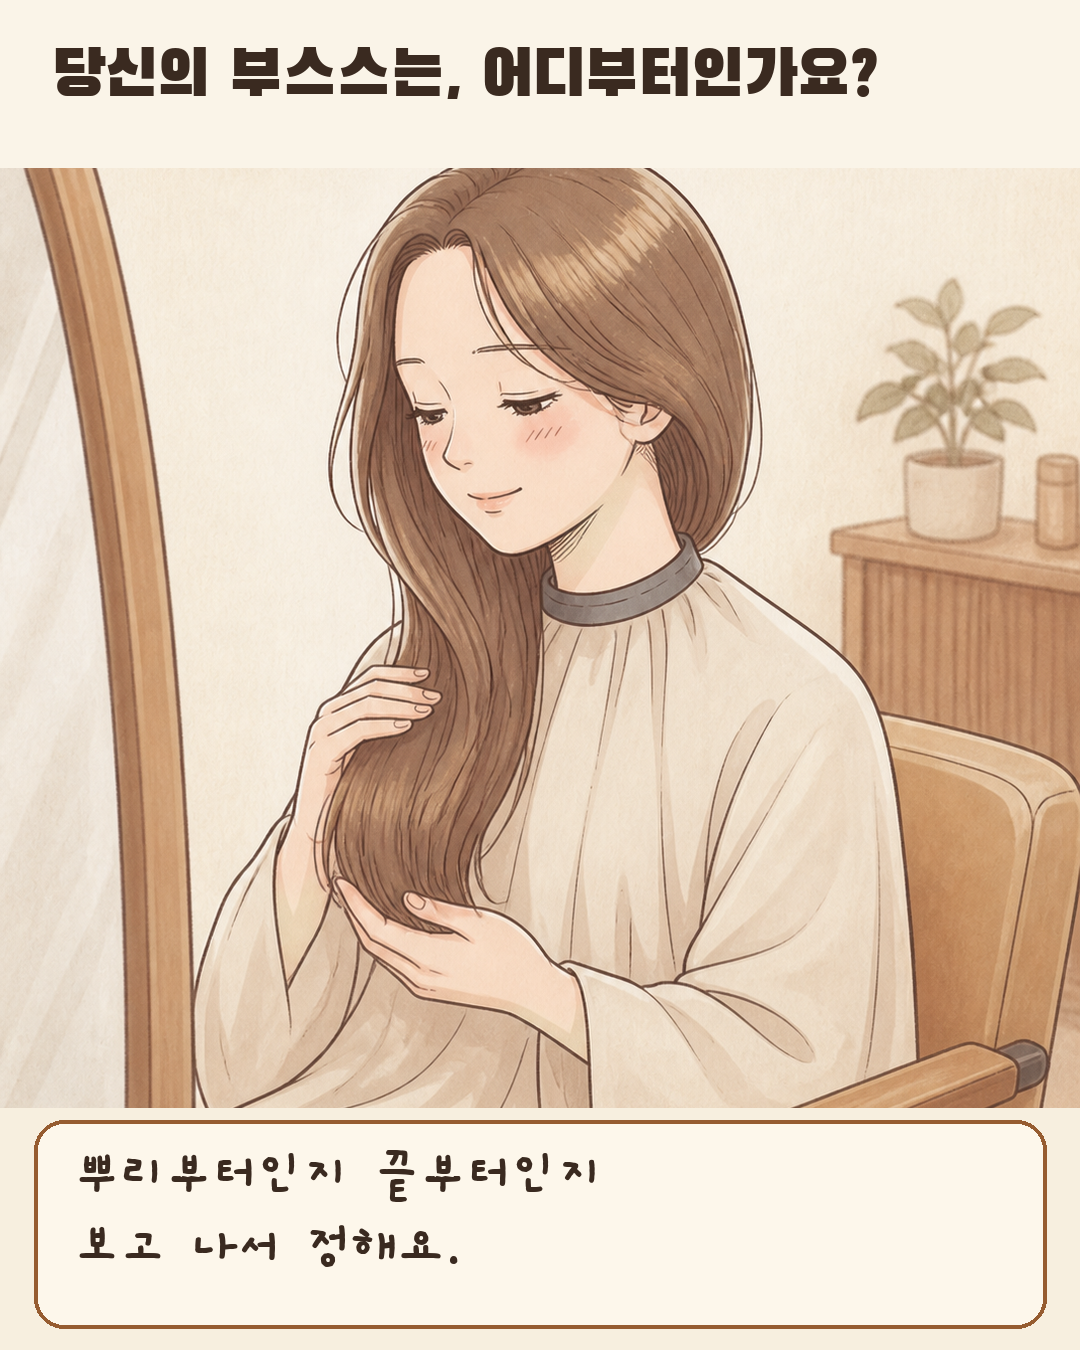
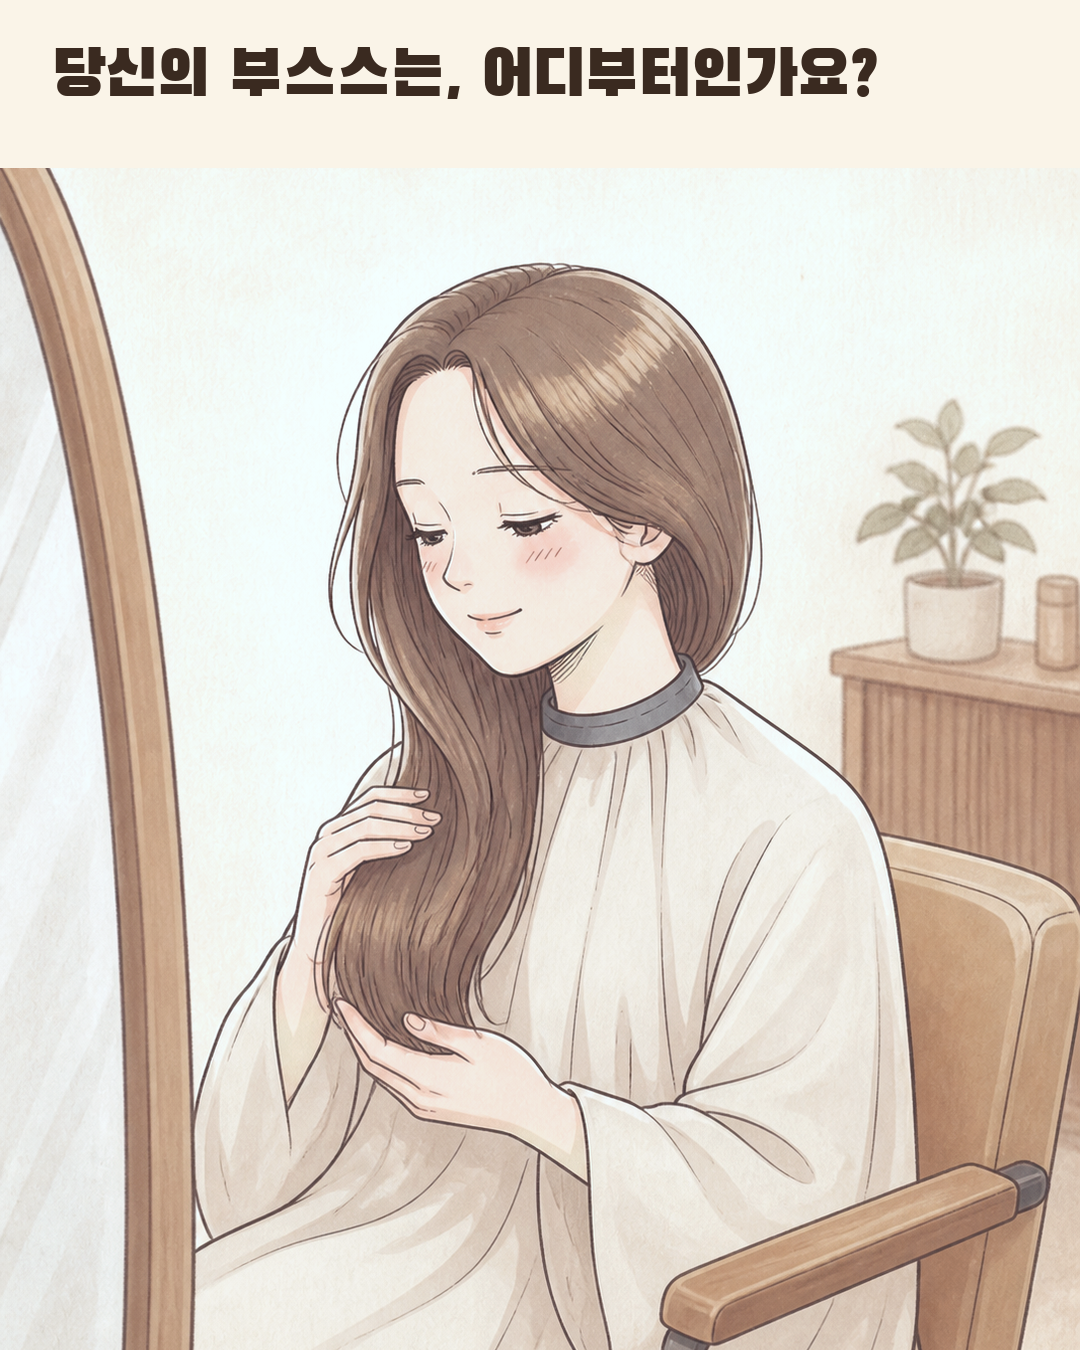
manga: assemble episode 3 C final

diff --git a/scripts/cards/make_card.py b/scripts/cards/make_card.py
@@ -17,7 +17,7 @@
 `|` 가 줄바꿈. 본문은 2줄 권장(최대 3줄), 행당 18자 이내.
 """
 import argparse, os
-from PIL import Image, ImageDraw, ImageFont
+from PIL import Image, ImageDraw, ImageEnhance, ImageFont, ImageStat
 
 W, H = 1080, 1350
 CREAM = (247, 239, 223)      # 카드 바탕
@@ -34,6 +34,24 @@ F_BODY = os.path.join(FONTS, "Gaegu-Bold.ttf")
 PAD = 52
 BAND_H = 168          # 헤드 밴드 높이
 LINE_BODY = 74        # 본문 행간
+
+
+def feed_tone(img):
+    """카드폼 §11 피드 톤. 반드시 문구 조립 전 그림에만 적용한다."""
+    im = ImageEnhance.Color(img.convert("RGB")).enhance(0.92)
+    mean = ImageStat.Stat(im).mean
+    luminance = sum(mean) / 3
+    if luminance < 232:
+        # 원화의 명암을 보존하면서 밝기를 피드 카드 쪽으로 완만히 리프트한다.
+        factor = 1 + (232 / max(luminance, 1) - 1) * 0.35
+        im = ImageEnhance.Brightness(im).enhance(factor)
+        mean = ImageStat.Stat(im).mean
+    # R-B 웜캐스트를 20 근처로 맞춘다. G와 명암은 건드리지 않는다.
+    delta = (20 - (mean[0] - mean[2])) / 2
+    r, g, b = im.split()
+    r = r.point(lambda v: max(0, min(255, round(v + delta))))
+    b = b.point(lambda v: max(0, min(255, round(v - delta))))
+    return Image.merge("RGB", (r, g, b))
 
 
 def fit(img, w, h):
@@ -91,6 +109,8 @@ def build(a):
     canvas = Image.new("RGB", (W, H), CREAM)
     d = ImageDraw.Draw(canvas)
     art = Image.open(a.img).convert("RGB")
+    if a.feed_tone:
+        art = feed_tone(art)
 
     if a.title:  # ── 표지형
         f_title = ImageFont.truetype(F_HEAD, 82)
@@ -171,4 +191,6 @@ if __name__ == "__main__":
     p.add_argument("--label", action="append",
                    help=r'도해 라벨 "텍스트\\n둘째줄|x비율|y비율" (반복 가능)')
     p.add_argument("--bleed", action="store_true", help="(호환용·무시)")
+    p.add_argument("--feed-tone", action="store_true",
+                   help="카드폼 §11 보정을 그림에만 적용한 뒤 밴드·패널 조립")
     build(p.parse_args())

diff --git a/scripts/manga_pipeline2.py b/scripts/manga_pipeline2.py
@@ -112,7 +112,7 @@ def generate(prompt: str, out_path: Path, refs: list, tries: int = 3) -> bool:
 def assemble(panel: dict, raw: Path, out: Path):
     """make_card.py 로 1080x1350 + 문구."""
     cmd = ["python3", str(ROOT / "scripts/cards/make_card.py"),
-           "--img", str(raw), "--out", str(out)]
+           "--img", str(raw), "--out", str(out), "--feed-tone"]
     if panel.get("bleed"):
         cmd.append("--bleed")
     for k in ("badge", "title", "head", "body", "pin"):

diff --git a/_현재_진행.md b/_현재_진행.md
@@ -5,6 +5,7 @@
 > 최신 갱신: 2026-08-19
 
 ## 📍 지금 상태 (무엇을 어디까지)
+- **만화연재 ③ 부스스함 C안 완료**: raw c1·c3·c6 해시 보존 확인 후 신규 생성 없이 조립. c2·c4·c5 포함 전 6컷 그림 영역만 피드 톤 보정하고 밴드·패널 재조립. `_out/결이부스스_final__M/` 6장 전부 1080×1350, c2~c6 밴드 RGB `(250,244,232)`, c6 하단 패널 없음. **미발행·썸네일 선택 대기.**
 - **만화연재 ④ 악성곱슬 통합 재구성 시안 완료**: 구 ⑤고데기를 흡수해 6컷으로 재구성. c2 그림 재사용+문구 교체, c1·c3·c4·c5·c6 재생성. c3 축모/파상모/직파모 라벨은 조립 단계에서 추가. `_out/결이악성곱슬_final__M/` 6장 전부 1080×1350, 본문 밴드 `(250,244,232)` 확인. **미발행·차노 승인 대기.**
 - **만화연재 ①편 레퍼런스 복구**: `c1_표지.png`·`c2_매듭.png`·`c6_공간.png` 3장 복구·검증 완료. 이후 만화 파이프라인이 캐릭터·화풍 레퍼런스를 정상 로드할 수 있음.
 - **쇼츠 중복·싱크 게이트**: `scripts/shorts_gate.py`에 **S8 최우선→S7→S9** 구현·테스트 완료. 기존 쇼츠 27편 소급은 S8 0/27(로컬 Whisper 없음), S7 픽셀 24통과·2경고·1탈락, S7 매니페스트/S9 0/27(근거 없음). senior 2종·ai일기 1종 인서트 부족으로 새 렌더 중단. 상세 `knowledge/쇼츠_S8_S7_S9_소급검사_20260817.md`.

diff --git a/knowledge/방_공유_작업로그.md b/knowledge/방_공유_작업로그.md
@@ -522,3 +522,8 @@
   - c3 축모/파상모/직파모 라벨 조립, c4 관자놀이+목덜미 두 자리, c5 플랫매직기, c6 하단 패널 없는 전후형 실측
   - `_out/결이악성곱슬_final__M/c1.png`~`c6.png`, `_out/결이악성곱슬_final__M/_컨택트시트.png`
   - 전 6장 1080×1350, 본문 밴드 `(250,244,232)`. ⛔ 발행 안 함 — 차노 승인 대기
+- 2026-08-19 (만화연재방) ✅ **③부스스함 편 C안 6컷 조립·밴드색 복원 완료**
+  - raw c1·c3·c6 SHA-256 전후 동일 확인 후 `--skip-existing` 조립만 실행. 신규 생성 없음
+  - 전 6컷 그림에만 카드폼 §11 피드 톤 적용 후 밴드·패널 조립. c2~c6 밴드 최빈 RGB `(250,244,232)`, c1 표지 바탕 `(247,239,223)`
+  - c3 줄바꿈 라벨 2개 적용·가운뎃점 없음, c6 하단 패널 없음. 전 컷 1080×1350
+  - 산출: `_out/결이부스스_final__M/c1.png`~`c6.png`, 검수 시트 `_컨택트시트_검수.png`. ⛔ 미발행
